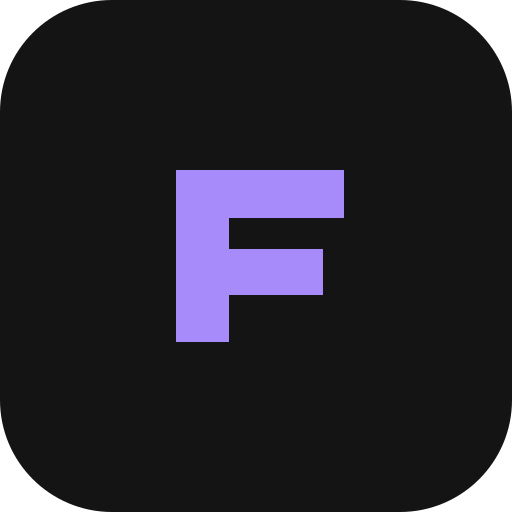
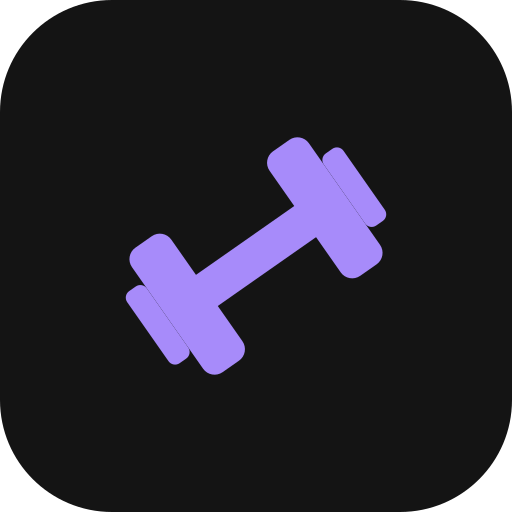
feat(pwa): publish The Workout Tracker on GitHub Pages

Changed region(s): [[0.25, 0.25, 0.75, 0.75]]

diff --git a/apps/workout/src/App.vue b/apps/workout/src/App.vue
@@ -314,7 +314,7 @@ async function exportBackup() {
   try {
     download(
       await service.exportBackup(),
-      `form-backup-${new Date().toISOString().slice(0, 10)}.json`,
+      `the-workout-tracker-backup-${new Date().toISOString().slice(0, 10)}.json`,
     );
     backupMessage.value = "Backup downloaded.";
   } catch {
@@ -449,9 +449,10 @@ const title = computed(() =>
   <a class="skip-link" href="#main">Skip to content</a>
   <div class="app-layout">
     <aside class="sidebar">
-      <a href="#/today" class="brand" aria-label="Form home"
-        ><span class="brand-mark">f</span
-        ><span>form<span class="accent">.</span></span></a
+      <a href="#/today" class="brand" aria-label="The Workout Tracker home"
+        ><span class="brand-mark"
+          ><Dumbbell :size="20" aria-hidden="true" /></span
+        ><span class="brand-name">The Workout<br />Tracker</span></a
       >
       <div class="workspace-label">YOUR TRAINING SPACE</div>
       <nav class="desktop-nav" aria-label="Main navigation">
@@ -483,7 +484,7 @@ const title = computed(() =>
         <button class="sidebar-action" @click="settingsOpen = true">
           <Settings2 :size="17" />Settings</button
         ><button v-if="!installed" class="sidebar-action" @click="install">
-          <ArrowDownToLine :size="17" />Install Form
+          <ArrowDownToLine :size="17" />Install The Workout Tracker
         </button>
         <div class="local-note">
           <ShieldCheck :size="15" /><span>Yours. On this device.</span>
@@ -515,13 +516,15 @@ const title = computed(() =>
             aria-label="Open settings"
             @click="settingsOpen = true"
           >
-            F
+            <Settings2 :size="15" aria-hidden="true" />
           </button>
         </div>
       </header>
       <main id="main" class="main">
         <div v-if="state.kind === 'loading'" class="empty-state loading-state">
-          <div class="brand-mark">f</div>
+          <div class="brand-mark">
+            <Dumbbell :size="20" aria-hidden="true" />
+          </div>
           <h1>Opening your training journal</h1>
           <p class="muted">Loading your saved workouts.</p>
         </div>
@@ -535,7 +538,9 @@ const title = computed(() =>
           <button
             v-if="state.kind === 'recovery'"
             class="btn secondary"
-            @click="download(state.rawExport, 'form-recovery.json')"
+            @click="
+              download(state.rawExport, 'the-workout-tracker-recovery.json')
+            "
           >
             Export recovery data</button
           ><button class="btn primary" @click="reload">Try again</button>
@@ -553,7 +558,7 @@ const title = computed(() =>
             </button>
           </div>
           <div v-if="needRefresh && !active" class="notice">
-            <span>A new version of Form is ready.</span
+            <span>A new version of The Workout Tracker is ready.</span
             ><button class="text-button" @click="updateServiceWorker(true)">
               Update app
             </button>
@@ -1567,7 +1572,7 @@ const title = computed(() =>
       <section class="settings-section">
         <div class="settings-row">
           <span
-            >Form on your home screen<small
+            >The Workout Tracker on your home screen<small
               >Open your journal like any other app.</small
             ></span
           ><button class="btn secondary" :disabled="installed" @click="install">
@@ -1587,7 +1592,7 @@ const title = computed(() =>
         </p>
       </section>
       <p class="settings-signoff">
-        <span class="brand small">form<span class="accent">.</span></span
+        <span class="brand small">The Workout Tracker</span
         ><span class="muted small">A quieter space to get stronger.</span>
       </p></template
     ></Sheet

diff --git a/apps/workout/test/e2e/workout.steps.ts b/apps/workout/test/e2e/workout.steps.ts
@@ -5,7 +5,7 @@ const { Given, When, Then } = createBdd();
 const nav = (page: Page, name: string) =>
   page.getByRole("link", { name, exact: true }).filter({ visible: true });
 async function openJournal(page: Page) {
-  await page.goto("/");
+  await page.goto("./");
   await expect(
     page.getByRole("heading", { name: "A little stronger, every day." }),
   ).toBeVisible();
@@ -298,7 +298,7 @@ When("two tabs edit the same set", async ({ page, context }) => {
     .click();
   await log(page, 1, "70", "5");
   const other = await context.newPage();
-  await other.goto("/#/session");
+  await other.goto("./#/session");
   await log(other, 1, "60", "8");
   await other
     .getByRole("button", { name: "Log set 1 of Bench press", exact: true })
@@ -425,3 +425,57 @@ Then("that custom workout survives an offline reload", async ({ page }) => {
     page.getByRole("dialog").getByText("Logged", { exact: true }),
   ).toHaveCount(1);
 });
+
+Then(
+  "the app has its published name and installable assets",
+  async ({ page, baseURL }) => {
+    await expect(page).toHaveTitle("The Workout Tracker");
+    const href = await page
+      .locator('link[rel="manifest"]')
+      .getAttribute("href");
+    expect(href).toBeTruthy();
+    const manifestURL = new URL(href!, page.url());
+    const response = await page.request.get(manifestURL.href);
+    expect(response.ok()).toBe(true);
+    const manifest: {
+      name: string;
+      short_name: string;
+      id: string;
+      start_url: string;
+      scope: string;
+      display: string;
+      icons: { src: string; sizes: string; type: string; purpose?: string }[];
+    } = await response.json();
+    expect(manifest).toMatchObject({
+      name: "The Workout Tracker",
+      short_name: "Workout Tracker",
+      display: "standalone",
+    });
+    for (const path of [manifest.id, manifest.start_url, manifest.scope]) {
+      expect(new URL(path, manifestURL).href).toBe(baseURL);
+    }
+    expect(manifest.icons.map((icon) => icon.sizes)).toEqual([
+      "192x192",
+      "512x512",
+      "512x512",
+    ]);
+    expect(manifest.icons.some((icon) => icon.purpose === "maskable")).toBe(
+      true,
+    );
+    for (const icon of manifest.icons) {
+      const url = new URL(icon.src, manifestURL);
+      expect(url.href.startsWith(baseURL!)).toBe(true);
+      const size = await page.evaluate(async (source) => {
+        const image = new Image();
+        image.src = source;
+        await image.decode();
+        return `${image.naturalWidth}x${image.naturalHeight}`;
+      }, url.href);
+      expect(size).toBe(icon.sizes);
+    }
+    const scope = await page.evaluate(
+      async () => (await navigator.serviceWorker.ready).scope,
+    );
+    expect(scope).toBe(baseURL);
+  },
+);

diff --git a/apps/workout/vite.config.ts b/apps/workout/vite.config.ts
@@ -3,7 +3,10 @@ import vue from "@vitejs/plugin-vue";
 import tailwindcss from "@tailwindcss/vite";
 import { VitePWA } from "vite-plugin-pwa";
 
+const base = process.env.VITE_BASE_PATH ?? "/";
+
 export default defineConfig({
+  base,
   plugins: [
     vue(),
     tailwindcss(),
@@ -11,20 +14,21 @@ export default defineConfig({
       registerType: "prompt",
       includeAssets: ["icon.svg", "apple-touch-icon.png"],
       manifest: {
-        name: "Form · Your training journal",
-        short_name: "Form",
+        id: base,
+        name: "The Workout Tracker",
+        short_name: "Workout Tracker",
         description:
           "Plan workouts, log sets, and track your progress offline.",
         theme_color: "#141414",
         background_color: "#141414",
         display: "standalone",
-        start_url: "/",
-        scope: "/",
+        start_url: base,
+        scope: base,
         icons: [
-          { src: "/pwa-192.png", sizes: "192x192", type: "image/png" },
-          { src: "/pwa-512.png", sizes: "512x512", type: "image/png" },
+          { src: "pwa-192.png", sizes: "192x192", type: "image/png" },
+          { src: "pwa-512.png", sizes: "512x512", type: "image/png" },
           {
-            src: "/pwa-maskable.png",
+            src: "pwa-maskable.png",
             sizes: "512x512",
             type: "image/png",
             purpose: "maskable",
@@ -34,7 +38,7 @@ export default defineConfig({
       workbox: {
         clientsClaim: true,
         globPatterns: ["**/*.{js,css,html,ico,png,svg,woff2}"],
-        navigateFallback: "/index.html",
+        navigateFallback: `${base}index.html`,
         cleanupOutdatedCaches: true,
       },
     }),

diff --git a/apps/workout/playwright.config.ts b/apps/workout/playwright.config.ts
@@ -1,6 +1,8 @@
 import { defineConfig, devices } from "@playwright/test";
 import { defineBddConfig } from "playwright-bdd";
 
+const baseURL = `http://127.0.0.1:4181${process.env.VITE_BASE_PATH ?? "/"}`;
+
 export default defineConfig({
   testDir: defineBddConfig({
     features: "test/e2e/*.feature",
@@ -11,7 +13,7 @@ export default defineConfig({
   forbidOnly: !!process.env.CI,
   retries: process.env.CI ? 1 : 0,
   use: {
-    baseURL: "http://127.0.0.1:4181",
+    baseURL,
     trace: "retain-on-failure",
     screenshot: "only-on-failure",
   },
@@ -24,7 +26,7 @@ export default defineConfig({
   ],
   webServer: {
     command: "pnpm exec vite preview --host 127.0.0.1 --port 4181 --strictPort",
-    url: "http://127.0.0.1:4181",
+    url: baseURL,
     reuseExistingServer: false,
   },
 });

diff --git a/apps/workout/src/style.css b/apps/workout/src/style.css
@@ -152,7 +152,13 @@ svg {
 .sidebar .brand {
   margin: 0 12px 46px;
 }
+.brand-name {
+  font-size: 17px;
+  letter-spacing: -0.4px;
+  line-height: 1.15;
+}
 .brand-mark {
+  flex-shrink: 0;
   display: grid;
   place-items: center;
   background: var(--purple);
@@ -164,7 +170,6 @@ svg {
   font-weight: 750;
   font-style: italic;
   line-height: 1;
-  padding-right: 3px;
 }
 .workspace-label {
   color: var(--muted);

diff --git a/apps/workout/src/features/workouts/application.ts b/apps/workout/src/features/workouts/application.ts
@@ -178,7 +178,7 @@ export function createWorkouts({ storage, now, id }: WorkoutDependencies) {
       if (!parsed.success)
         return {
           kind: "invalid",
-          message: "This is not a valid Form workout backup.",
+          message: "This is not a valid workout backup.",
         };
       return write(expectedRevision, (snapshot) =>
         mergeSnapshots(snapshot, parsed.data.snapshot),

diff --git a/apps/workout/index.html b/apps/workout/index.html
@@ -13,7 +13,8 @@
     />
     <link rel="icon" type="image/svg+xml" href="/icon.svg" />
     <link rel="apple-touch-icon" href="/apple-touch-icon.png" />
-    <title>Form · Your training journal</title>
+    <meta name="apple-mobile-web-app-title" content="The Workout Tracker" />
+    <title>The Workout Tracker</title>
   </head>
   <body>
     <div id="app"></div>

diff --git a/apps/workout/src/usePwa.ts b/apps/workout/src/usePwa.ts
@@ -58,7 +58,8 @@ export function usePwa() {
         installMessage.value = "Installation requested.";
       installEvent.value = null;
     } catch {
-      installMessage.value = "Use your browser menu to install Form.";
+      installMessage.value =
+        "Use your browser menu to install The Workout Tracker.";
     }
   }
   return {

diff --git a/README.md b/README.md
@@ -1,4 +1,6 @@
-# Form
+# The Workout Tracker
+
+[Open the app](https://alexanderop.github.io/the-workout-tracker/) · [Source](https://github.com/alexanderop/the-workout-tracker)
 
 A quiet, local-first workout journal. Dark mode, five colors, purple as the primary accent. Built with Vue 3, strict TypeScript, Vite, Dexie, Reka UI, Lucide and a service worker.
 
@@ -55,7 +57,7 @@ IndexedDB holds your journal in this browser profile, on this origin. Clearing s
 
 Imports restore a completely untouched installation, including edited starter routines. Otherwise they add missing records, skip exact duplicates and reject conflicting IDs without partially importing. Local settings stay unchanged. Two different active workouts cannot be merged. A newer backup with edits to records already on another device can therefore require a fresh browser profile for restoration. Import is not multi-device synchronization.
 
-An unreadable database offers a raw recovery export rather than silently clearing your data. Simultaneous edits use revision checks; if another tab changed the set you are editing, Form keeps your draft visible and asks you to reload the saved version.
+An unreadable database offers a raw recovery export rather than silently clearing your data. Simultaneous edits use revision checks; if another tab changed the set you are editing, The Workout Tracker keeps your draft visible and asks you to reload the saved version.
 
 ## Verify
 
@@ -66,6 +68,16 @@ pnpm verify
 
 Verification includes formatting, lint, type checking, production build, pure domain tests, real Chromium IndexedDB and component tests, and desktop/mobile browser journeys. Acceptance tests exercise production service-worker offline reload, custom exercise logging, routine editing, real backup downloads and imports, discard and stale-tab conflicts. Screenshots are written to `apps/workout/test-results/`.
 
-The mobile suite uses Chromium device emulation. It does not establish physical iPhone/Safari installation behavior. The manifest and assets are generated; no native OS installation or remote deployment is part of this local build.
+The mobile suite uses Chromium device emulation. It does not establish physical iPhone/Safari installation behavior. The manifest and assets are generated; native OS installation still requires a user action.
 
 Architecture decisions are in [docs/architecture.md](docs/architecture.md), test responsibilities in [docs/testing.md](docs/testing.md), the design tokens in [docs/design.md](docs/design.md), and the implementation trail in [.audit/decisions.tsv](.audit/decisions.tsv).
+
+## GitHub Pages
+
+The verification workflow builds and tests the actual Pages project path before deployment. It publishes `apps/workout/dist` through the official GitHub Pages actions only after verification succeeds.
+
+The repository variable `PAGES_BRANCH` selects the publication branch. If unset, it defaults to `main`. While the architecture PR is open, it selects `codex/feature-architecture` so the reviewed changes remain unmerged. After merging, set the variable to `main` or delete it. Pull requests run verification without deployment permissions.
+
+For a local deployment rehearsal, run `VITE_BASE_PATH=/the-workout-tracker/ pnpm verify`. The same base path scopes the manifest, icons, application navigation, and service worker. The app remains installable and works offline after its first complete online load.
+
+The display name and download filenames use The Workout Tracker. The internal IndexedDB name and versioned backup identifiers retain their existing values so the rename does not discard data or invalidate backups.

diff --git a/docs/architecture.md b/docs/architecture.md
@@ -1,6 +1,6 @@
 # Workout feature and dependency boundaries
 
-Form groups training behavior in one workout feature. Sessions, routines, settings, history, and backups share the same snapshot and revision rules. A screen is not an independent storage boundary.
+The Workout Tracker groups training behavior in one workout feature. Sessions, routines, settings, history, and backups share the same snapshot and revision rules. A screen is not an independent storage boundary.
 
 ## Module ownership
 
